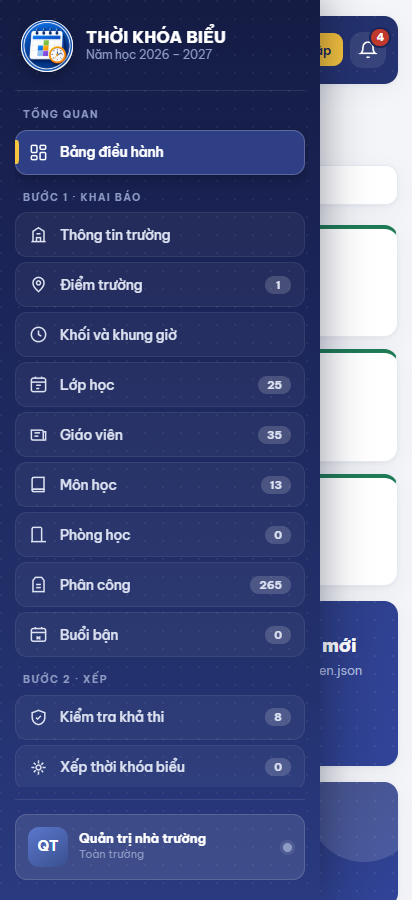
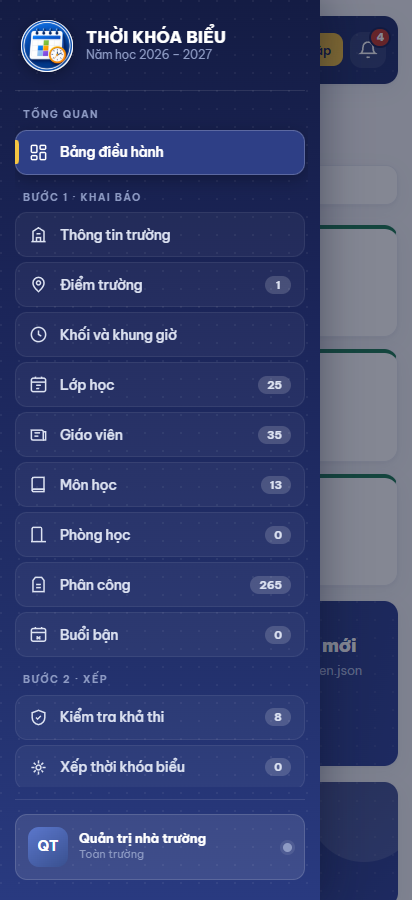
Vá ba lỗi chủ dự án bắt trên iPhone: ngăn kéo kẹt, chữ tràn, nút sai
1. NGĂN KÉO KẸT CỨNG. Quy tắc gốc đặt .man-menu{display:none} cho máy
   tính, media query điện thoại quên bật lại display — nền mờ không hiện,
   không bấm được, mà body đã bị khoá cuộn. Mở ngăn kéo ra là không còn
   lối thoát nào ngoài chọn đại một mục. Nay thêm display:block, kèm phép
   thử đọc thẳng CSS trong khối media query.

2. NÚT VẪN GHI "ĐĂNG NHẬP" DÙ ĐÃ ĐĂNG NHẬP GOOGLE. Trạng thái khách
   (có phiên, chưa thuộc trường nào) rơi vào nhánh else nên hiện lời mời
   đăng nhập — thầy cô tưởng chưa vào được, bấm lại lần nữa vô nghĩa. Nay
   hiện tên tài khoản đang dùng; bấm vào mở hộp "Tài khoản đang dùng" với
   hai lối thật sự cần: Đăng xuất và Nhập mã mời.

3. LỜI CHÀO BỊ KHUẤT. Email dài tràn khỏi khung trên màn hình hẹp — nay
   cỡ chữ co theo bề ngang (clamp) và bọc chữ bằng overflow-wrap. Thông
   báo dưới đáy bị thanh Safari che, nay cộng env(safe-area-inset-bottom).

Kiểm chứng: npm test 225/225, npm run soi 135/135 (+7), chụp lại ảnh
giao diện bằng Chrome thật, không lỗi JS.

Changed region(s): [[0.7573, 0.0, 1.0, 1.0]]

diff --git a/src/index.html b/src/index.html
@@ -348,7 +348,9 @@ tr.tat-d{opacity:.5}tr.tat-d span{text-decoration:line-through}
 .on-l .ip{width:100%}
 .gy{font-size:12px;color:var(--chu-mo);margin-top:6px}
 
-#bao{position:fixed;bottom:26px;left:50%;transform:translateX(-50%) translateY(100px);z-index:99;
+/* Thanh công cụ dưới đáy Safari trên iPhone che mất thông báo — cộng thêm
+   vùng an toàn của máy. Đã dính thật: chữ "Đã đăng nhập Google." bị cắt đôi. */
+#bao{position:fixed;bottom:calc(26px + env(safe-area-inset-bottom,0px));left:50%;transform:translateX(-50%) translateY(100px);z-index:99;
   background:var(--nav);color:#fff;padding:12px 22px;border-radius:30px;font-size:13.5px;font-weight:600;
   box-shadow:var(--bong2);transition:transform .32s cubic-bezier(.2,.9,.3,1.2);pointer-events:none;max-width:90vw;text-align:center}
 #bao.on{transform:translateX(-50%) translateY(0)}
@@ -472,7 +474,10 @@ table.tt tr.het td{border-bottom:2px solid var(--ke-2)}
     padding:20px 15px;overflow:hidden;
     transform:translateX(-101%);transition:transform .24s ease}
   body.mo-menu aside{transform:none;box-shadow:0 0 44px rgba(10,15,40,.45)}
-  .man-menu{position:fixed;inset:0;z-index:60;background:rgba(10,15,40,.5);
+  /* `display:block` BẮT BUỘC ở đây: quy tắc gốc đặt .man-menu{display:none}
+     cho máy tính, quên bật lại thì nền mờ không hiện, không bấm được — mở
+     ngăn kéo ra là kẹt cứng, không lối thoát. Đã dính thật trên iPhone. */
+  .man-menu{display:block;position:fixed;inset:0;z-index:60;background:rgba(10,15,40,.5);
     opacity:0;pointer-events:none;transition:opacity .24s}
   body.mo-menu .man-menu{opacity:1;pointer-events:auto}
   body.mo-menu{overflow:hidden}
@@ -3543,7 +3548,7 @@ function mChao(){
   /* --- Biến thể KHÁCH: đã đăng nhập (thường là Google) nhưng chưa thuộc trường nào --- */
   if(KHO.khach) return `<div class="hd-dau" style="text-align:center;padding:30px 26px">
     <div class="hd-eb">✦ THỜI KHÓA BIỂU TRƯỜNG TIỂU HỌC</div>
-    <h2 style="font-size:24px">Chào ${esc(KHO.khach.email||'quý thầy cô')}</h2>
+    <h2 style="font-size:clamp(17px,5vw,24px);overflow-wrap:anywhere;line-height:1.3">Chào ${esc(KHO.khach.email||'quý thầy cô')}</h2>
     <p style="margin:9px auto 0;max-width:560px">Tài khoản đã đăng nhập nhưng <b>chưa thuộc trường nào</b>
       trong hệ thống. Chọn một trong ba lối dưới đây.</p>
   </div>
@@ -3561,7 +3566,7 @@ function mChao(){
       <div class="ts-n" style="line-height:1.6">Lập hồ sơ trường trên hệ thống — việc của cán bộ
         quản lý, cả trường chỉ làm một lần.</div></div>
   </div>
-  <div style="max-width:560px;margin:18px auto 0;text-align:center">
+  <div style="max-width:560px;margin:18px auto 40px;text-align:center">
     <div class="gy"><a href="#" id="btChaoThoat" style="color:var(--chu-mo)">Đăng xuất khỏi tài khoản này</a></div>
   </div>`;
 
@@ -6644,6 +6649,14 @@ function capNhatTaiKhoan(){
     $('#chuDangNhap').textContent = tenTat(n.hoTen);
     nut.className='b b-vien';
     nut.title = n.hoTen+' — bấm để đăng xuất';
+  }else if(KHO.khach){
+    /* Đã đăng nhập Google nhưng chưa thuộc trường nào. Để nguyên chữ
+       "Đăng nhập" thì thầy cô tưởng mình chưa vào được — mời họ đăng
+       nhập lần thứ hai một cách vô nghĩa. Hiện tên tài khoản đang dùng. */
+    const em=String(KHO.khach.email||'').split('@')[0] || 'Tài khoản';
+    $('#chuDangNhap').textContent = em.length>12 ? em.slice(0,11)+'…' : em;
+    nut.className='b b-vien';
+    nut.title = KHO.khach.email+' — đã đăng nhập, chưa thuộc trường nào. Bấm để đăng xuất.';
   }else{
     $('#chuDangNhap').textContent = 'Đăng nhập';
     nut.className='b b-vang';
@@ -6671,6 +6684,18 @@ export const SUPABASE_ANON = 'eyJhbGciOi...';</div>
        Tạo tệp xong thì tải lại trang. Mở tệp bằng đường dẫn file:// sẽ không nạp được cấu hình,
        phải chạy qua máy chủ web — dùng lệnh <b>npm start</b>.</div>`,
     [{ten:'Đóng',lam:dong}]);
+
+  /* Đang là KHÁCH: đã đăng nhập Google, chưa thuộc trường nào. Bấm nút tài
+     khoản trên thanh phải cho họ lối ra, đừng mời đăng nhập lần nữa. */
+  if(KHO.khach) return hop('Tài khoản đang dùng',
+    `<div class="hang">Đăng nhập bằng <b>${esc(KHO.khach.email||'')}</b></div>
+     <div class="canhbao" style="margin-top:13px"><div class="cb-ic">i</div><div class="cb-t">
+       <b>Tài khoản này chưa thuộc trường nào</b>
+       <div class="cb-g">Nhập <b>mã mời</b> nhà trường gửi cho thầy cô là vào được ngay.
+         Chưa có mã thì hỏi người quản trị của trường.</div></div></div>`,
+    [{ten:'Đăng xuất',phu:1,lam:()=>{ dangXuat(); dong(); capNhatTaiKhoan();
+        bao('Đã đăng xuất.'); chuyen('chao'); }},
+     {ten:'Nhập mã mời',lam:hopNhapMaMoi}]);
 
   /* Đã có cấu hình nhưng chưa đăng nhập — chỉ một cửa: Google.
      Đường mật khẩu đã gỡ khỏi giao diện (quyết định 2/8/2026): mỗi CBGV
